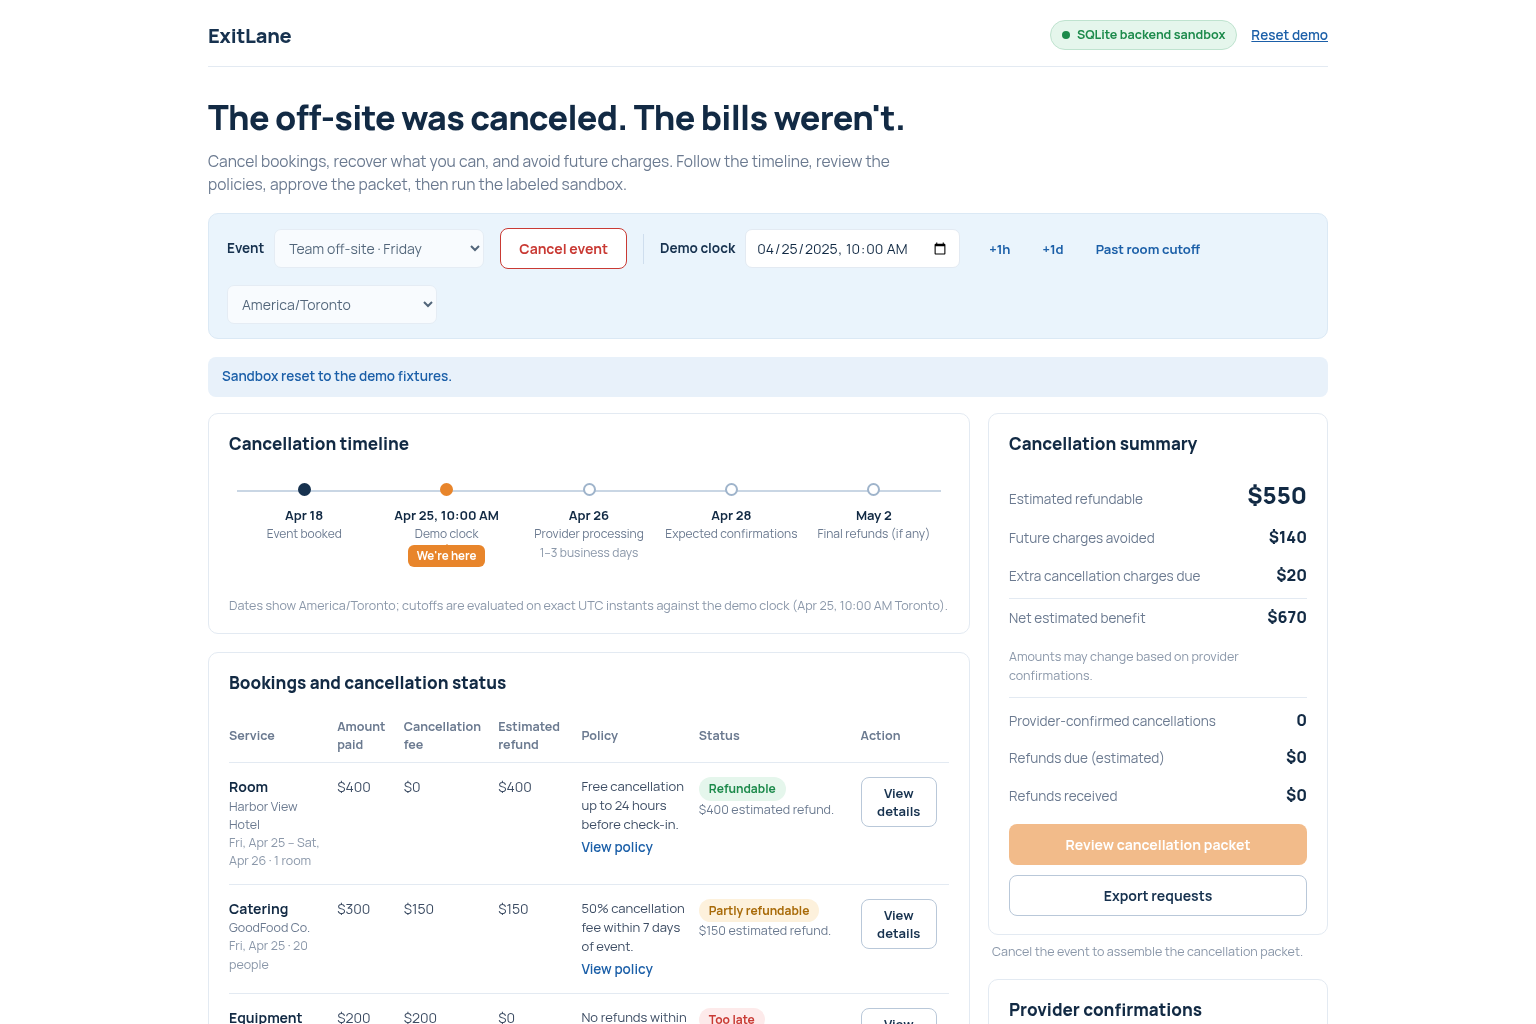
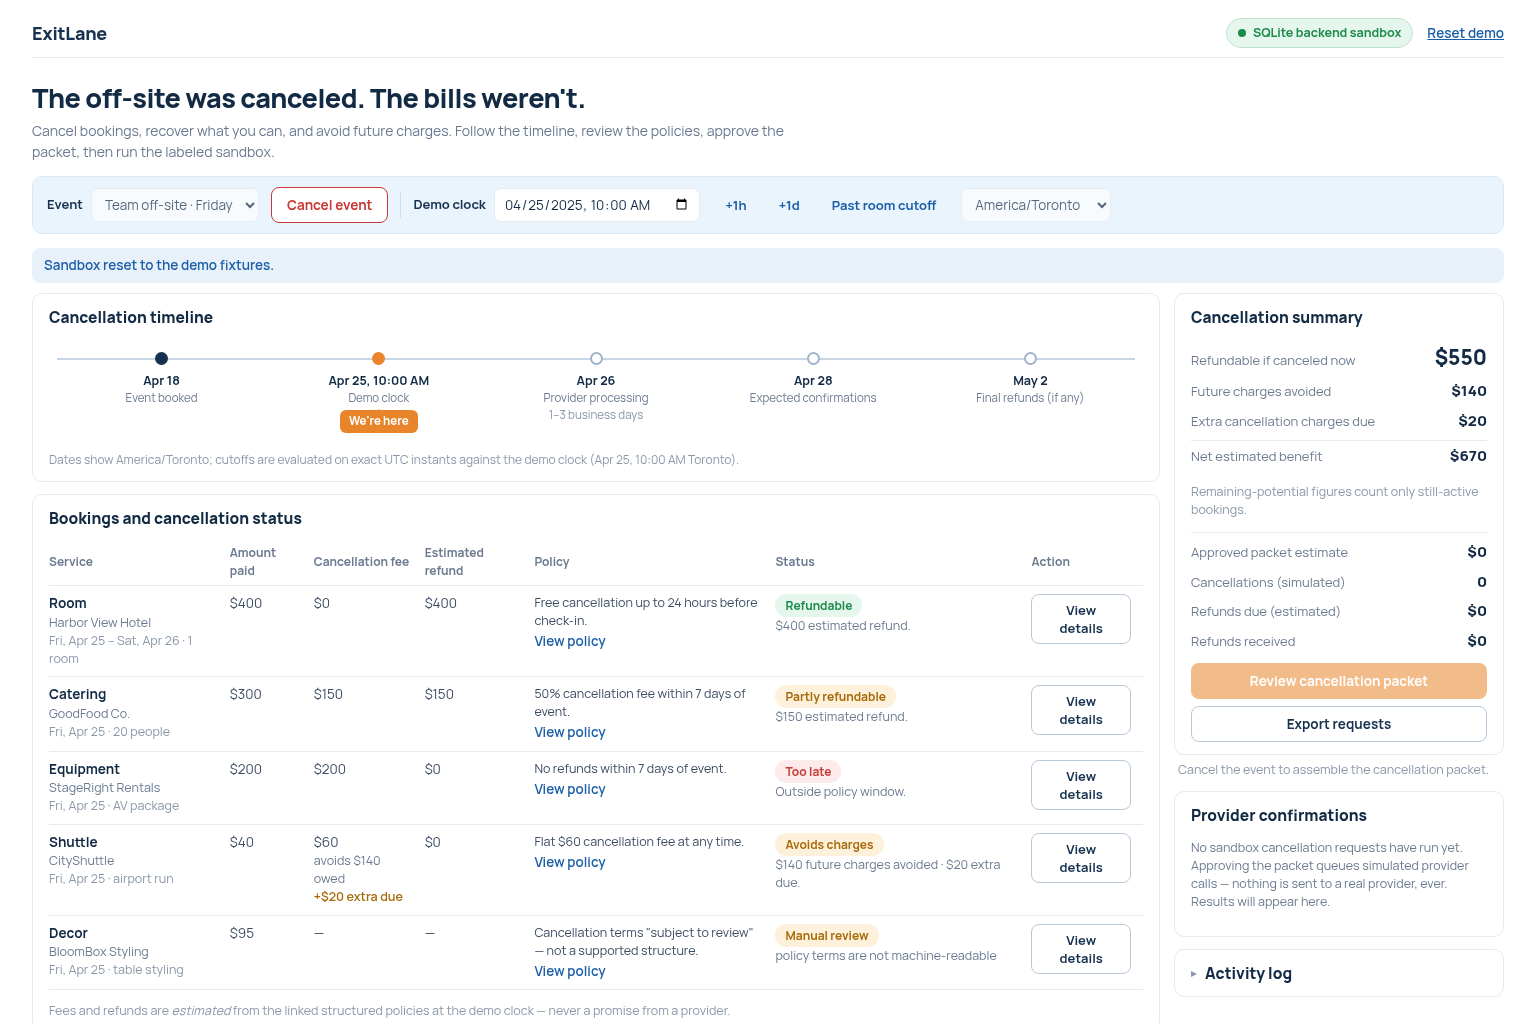
docs(ramp-review): ExitLane final head 7fd9f56 re-audit; no open P1/P2

diff --git a/docs/ramp-review/probes/exitui2.py b/docs/ramp-review/probes/exitui2.py
@@ -1,0 +1,25 @@
+import re
+from playwright.sync_api import sync_playwright
+with sync_playwright() as p:
+    b=p.chromium.launch(executable_path='/opt/.devin/google-chrome.sh',args=['--no-sandbox'])
+    pg=b.new_page(viewport={'width':1536,'height':1024}); pg.goto('http://localhost:5315/',wait_until='networkidle')
+    btn=lambda n: pg.get_by_role('button',name=re.compile(n,re.I)).first
+    btn('^reset').click(); pg.wait_for_timeout(800)
+    print('initial scrollH',pg.evaluate('document.documentElement.scrollHeight'))
+    pg.screenshot(path='/home/ubuntu/review-shots/exit2-1536-initial.png')
+    for n in ['^cancel event','review cancellation packet']:
+        try: btn(n).click(timeout=4000); pg.wait_for_timeout(900)
+        except Exception as e: print('fail',n,str(e)[:50])
+    print('dialog buttons',[x.inner_text().strip()[:40] for x in pg.get_by_role('button').all() if x.is_visible()][:30])
+    for n in ['approve','execute|run|send']:
+        try: btn(n).click(timeout=4000); pg.wait_for_timeout(1200)
+        except Exception as e: print('fail',n,str(e)[:50])
+    try: pg.keyboard.press('Escape'); pg.wait_for_timeout(500)
+    except: pass
+    print('after scrollH',pg.evaluate('document.documentElement.scrollHeight'))
+    t=pg.inner_text('body'); i=t.find('Cancellation summary'); print('SUMMARY',t[i:i+500].replace('\n',' | '))
+    pg.screenshot(path='/home/ubuntu/review-shots/exit2-1536-executed.png')
+    m=b.new_page(viewport={'width':390,'height':844}); m.goto('http://localhost:5315/',wait_until='networkidle'); m.wait_for_timeout(600)
+    print('mobile sw',m.evaluate('document.documentElement.scrollWidth'))
+    m.screenshot(path='/home/ubuntu/review-shots/exit2-390.png',full_page=True)
+    b.close()

diff --git a/docs/ramp-review/probes/exitcorrupt.py b/docs/ramp-review/probes/exitcorrupt.py
@@ -1,0 +1,12 @@
+from playwright.sync_api import sync_playwright
+with sync_playwright() as p:
+    b=p.chromium.launch(executable_path='/opt/.devin/google-chrome.sh',args=['--no-sandbox'])
+    pg=b.new_page(viewport={'width':1536,'height':1024}); errs=[]; pg.on('pageerror',lambda e: errs.append(str(e)))
+    pg.goto('http://localhost:5398/ramp-prototypes/exitlane/',wait_until='networkidle'); pg.wait_for_timeout(800)
+    for val in ['{garbage','{"bookings":"x","epoch":-1}','null']:
+        pg.evaluate("([k,v])=>localStorage.setItem(k,v)",['exitlane:v1',val]); pg.reload(wait_until='networkidle'); pg.wait_for_timeout(800)
+        t=pg.inner_text('body'); i=t.find('$550')
+        print(repr(val[:20]),'mode', 'browser sandbox' in t.lower(), 'has550', i>=0, 'notice', [l for l in t.split('\n') if 'storage' in l.lower() or 'restor' in l.lower()][:2])
+    print('errors',errs[:3])
+    pg.screenshot(path='/home/ubuntu/review-shots/exit2-static-corrupt.png')
+    b.close()

diff --git a/docs/ramp-review/README.md b/docs/ramp-review/README.md
@@ -8,7 +8,7 @@ This is a review-only branch. No app code was changed and no builder fixes are d
 | Budget Brawl | `codex/budget-brawl` PR2 | `32468be` | **`0e5e7b7`** | 5314 |
 | BorrowFirst | `codex/borrowfirst` PR3 | `e2942ab` | **`df48f9e`** | 5313 |
 | Pay Me Twice | `codex/pay-me-twice` PR4 | `2ef72e2` | **`a0b08c7`** | 5312 |
-| ExitLane | `codex/exitlane` PR6 | — | **`31bc5d0`** (the builder is still fixing it; I'll re-review the final head) | 5315 |
+| ExitLane | `codex/exitlane` PR6 | — | **`7fd9f56`** (final repair) | 5315 |
 
 ## Checks (Node 22.14.0, Linux)
 
@@ -18,7 +18,7 @@ This is a review-only branch. No app code was changed and no builder fixes are d
 | Pay `a0b08c7` | ok | 41/41 | ok | ok | sqlite |
 | Borrow `df48f9e` | ok | 47/47 | ok | ok | sqlite |
 | Budget `0e5e7b7` | ok | 35/35 | ok | ok | sqlite |
-| Exit `31bc5d0` | ok | 32/32 (`node --test`) | ok | ok | sqlite |
+| Exit `7fd9f56` | ok | 40/40 (`node --test`) | ok | ok | sqlite |
 
 Static builds fall back to the "Browser sandbox" label; the console shows the expected `/api/health` 404. That 404 is the probe that triggers the fallback and is not a defect.
 
@@ -46,13 +46,21 @@ Static builds fall back to the "Browser sandbox" label; the console shows the ex
 | Borrow: forced selection, server plan validation, restart persistence, confirmed-plan UI, mobile overflow | Fixed. After reserving, the panel shows Proposed $255 with Confirmed $255 (`screenshots/borrow-final-after-reserve.png`). 390px `scrollWidth` is 390. |
 | Budget: holds swept only on GET, "Prevented" counting pending requests, command epochs | Fixed in `0e5e7b7`. `sweepExpired` now also runs inside place/approve/commit/cancel. With `quoteTtlMs:1000`, approving after 1.6 s with no GET in between returns `expired` and the next request reserves the released funds (`probes/budget4.mjs`). The headline now reads "Denied for budget: 0 · Pending approval or funds: 2". A stale `epoch` is rejected with `stale_epoch`. 20 concurrent requests left reserved 6000 of 10000, so the invariant holds. Windows test teardown is not run on a real Windows host. |
 
-## Remaining findings (P1: none)
+## ExitLane final head `7fd9f56` (`probes/exit-final.mjs`, `exitui2.py`, `exitcorrupt.py`)
+- **Fee math and cutoffs:** E01, E02 and E09, the DST cutoff, the stale room after the clock moves, and the 8× concurrent execute all re-pass.
+- **Skipped entries:** `/packet/execute` now returns stale and excluded entries with `skipped:true` and a reason, e.g. `bk-room: stale (clock_moved)` and `bk-decor: excluded: manual_review`.
+- **Failed provider retry past cutoff:** retrying `bk-equipment` 2 days later executes once, and a repeat returns `replayed:true`. Equipment's assessment doesn't change across that window (100% fee), so the retry is legitimately not stale.
+- **Invalid paid amount:** editing `paidMinor` above committed makes `bk-catering` `excluded` at prepare, and approve covers only the remaining 4 valid entries. A negative unpaid amount returns 400.
+- **Reset replay:** after reset, requests and outcomes are empty, and an old-epoch request ID returns 404 `not_found`. New IDs carry an `-e<epoch>` suffix with no collision.
+- **Corrupt browser storage:** with `exitlane:v1` set to `{garbage`, a wrong-shape JSON value, or `null`, a reload of the static build falls back to fresh fixtures ($550, browser-sandbox label) with no page errors.
+- **Lifecycle counts:** after execution, the summary reads "Refundable if canceled now $0 — reviewed bookings already confirmed", "Approved packet estimate $550", and "3 confirmed, 1 failed".
+- **Layout:** 1536 initial scrollHeight is 1196 (was 1650). The summary and all five booking rows are above the fold. Only the policy footnote, Provider confirmations and the Activity log are partly below it. At 390, `scrollWidth` is 390.
+- **Windows cleanup:** not run on a real Windows host.
+
+## Remaining findings (P1: none, P2: none open)
 
 **P2**
-1. **ExitLane: results don't fit in 1536×1024.** The page is 1650px tall. The content is centered at about 1120px wide, while the concept uses the full width. Only Room, Catering and part of Equipment show above the fold; Shuttle, Decor, Provider confirmations and Policy evidence are below it (`screenshots/exit-1536.png` vs `exitlane-concept.png`). Fix: widen the container to about 1460px, put the timezone select on the control row, and tighten table row padding.
-2. **ExitLane: confusing summary after execution.** Repro: Cancel → Review packet → Approve → Execute. "Estimated refundable" drops to **$0** while "Refunds due (estimated)" shows $550, and the "Provider-confirmed cancellations" value reads "recorded below" (`screenshots/exit-mobile.png`). A viewer reads $0 as "nothing recovered". Fix: keep $550 with a "now confirmed → due" label, and show the confirmed count as a number.
-3. **ExitLane: the `/packet/execute` response silently omits stale bookings.** After the clock advance, the result lists 3 bookings, and `bk-room` (stale) is missing instead of being reported as `refused: stale`. The UI or API consumer cannot tell "skipped" from "not in packet". Fix: return stale and excluded entries with a reason.
-4. ~~Root runner: `runStart` removes items from `list` while iterating it.~~ **Fixed in `eb0122d`**: builds now go into a separate `ready` list, and only built apps are started.
+ExitLane P2s 1–3 at `31bc5d0` (fit at 1536, $0 headline after execute, silently omitted stale entries) are resolved at `7fd9f56` (see above). Root runner P2 4 is resolved at `eb0122d`.
 
 **P3**
 - **Budget** (`0e5e7b7`): the agent status cards come from local `lane.last` state. After a reload or in a second tab they read "Idle — No request sent yet" even though the timeline shows the same requests awaiting approval (`screenshots/budget-final-390.png`). Fix: derive each card from the latest snapshot request per agent. On mobile the timeline table scrolls inside its card (page `scrollWidth` is 390), and its rows have large blank gaps.
@@ -66,7 +74,11 @@ Static builds fall back to the "Browser sandbox" label; the console shows the ex
 - **Pay:** verdict, ledger header and first ledger rows fit (ledger table header at y≈837).
 - **Borrow:** proposed solution, "Potential spending avoided" and Confirm all fit (Confirm bottom ≈645).
 - **Budget** (`0e5e7b7`): after launch, the whole page including the timeline and its Approve/Reject actions fits in 1024 (scrollHeight 1024). At 390px `scrollWidth` is 390 and no element extends past the right edge (`screenshots/budget-final-1536.png`, `budget-final-390.png`).
-- **Exit:** does not fit (see P2-1).
+- **Exit** (`7fd9f56`): mostly fits (1196px tall). See above.
+
+## Expected root CSS-only final polish (reported by root; not yet verified by this review)
+- Budget: `max-width: 1500px` to match the concept width.
+- Pay: month input `min-width: 150px` plus flex-wrap, so the full month and year show without clipping (resolves the Pay P3 truncation).
 
 ## Probe usage
 The scripts assume local servers on 5311–5315. Python probes drive system Chrome through Playwright. The `.mjs` probes need Node ≥ 22.
